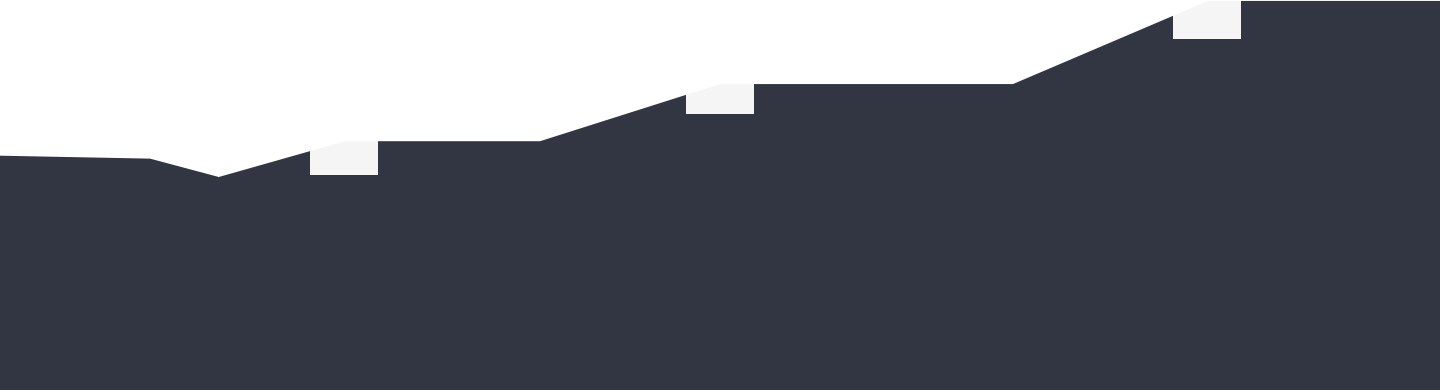
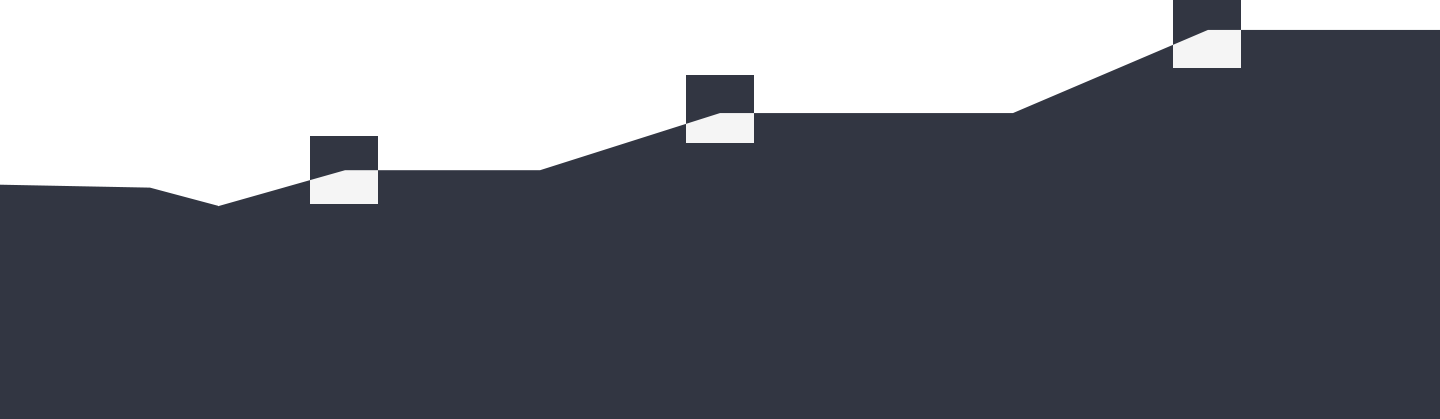
feat: implement edges section adaptive

Changed region(s): [[0.0, 0.0, 1.0, 0.4923]]

diff --git a/src/scss/index/edges.scss b/src/scss/index/edges.scss
@@ -1,4 +1,7 @@
 .edges {
+	@include media-tablet-lg {
+		margin-bottom: 40px;
+	}
 }
 
 .edges__top {
@@ -21,11 +24,19 @@
 
 		background-color: $blackAlpha;
 	}
+
+	@include media-tablet-lg {
+		&::after {
+			display: none;
+		}
+	}
 }
 
 .edges__inner {
 	position: relative;
-	padding-top: 300px;
+	padding-top: 341px;
+
+	background-image: url("../img/edges-bg.png");
 	background-repeat: no-repeat;
 	background-position: center bottom;
 	background-size: 100%;
@@ -45,7 +56,7 @@
 		height: 100%;
 		width: 100vw;
 
-		top: 0;
+		top: 25px;
 		left: 99%;
 	}
 
@@ -53,7 +64,116 @@
 		height: 100%;
 		width: 100vw;
 
-		top: 110px;
+		top: 151px;
 		right: 99%;
+	}
+
+	@include media-laptop {
+		margin: 0 -15px -1px;
+
+		&::after,
+		&::before {
+			display: none;
+		}
+	}
+
+	@include media-tablet-lg {
+		background: $whiteAlpha;
+
+		margin: 0;
+		padding: 0;
+	}
+}
+
+.edges__items {
+	display: grid;
+	grid-template-columns: repeat(3, 1fr);
+	grid-gap: 15px;
+
+	@include media-phone-lg {
+		grid-template-columns: repeat(1, 1fr);
+	}
+}
+
+.edges__item {
+	position: absolute;
+
+	max-width: 300px;
+	width: 100%;
+
+	&:nth-child(1) {
+		top: 61%;
+		left: 19%;
+	}
+
+	&:nth-child(2) {
+		top: 45%;
+		left: 46%;
+	}
+
+	&:nth-child(3) {
+		top: 30%;
+		left: 80%;
+	}
+
+	// &::before {
+	// 	position: relative;
+
+	// 	display: block;
+
+	// 	content: "";
+
+	// 	height: 15px;
+	// 	width: 15px;
+
+	// 	background-color: $blackAlpha;
+
+	// 	margin: 0 auto 10px;
+	// }
+
+	@include media-laptop {
+		&:nth-child(1) {
+			top: 61%;
+		}
+
+		&:nth-child(2) {
+			top: 47%;
+		}
+
+		&:nth-child(3) {
+			top: 32%;
+		}
+	}
+
+	@include media-tablet-lg {
+		position: static;
+
+		// max-width: unset;
+		margin: 0 auto;
+		padding: 15px;
+
+		box-shadow: rgba(0, 0, 0, 0.1) 0px 1px 3px 0px,
+			rgba(0, 0, 0, 0.06) 0px 1px 2px 0px;
+
+		text-align: center;
+		color: $blackAlpha;
+	}
+}
+
+.edges__item-title {
+	font-size: 30px;
+	font-family: $fontSecondary;
+	margin-bottom: 15px;
+
+	@include media-laptop {
+		font-size: 22px;
+	}
+}
+
+.edges__item-text {
+	font-size: 18px;
+
+	@include media-laptop {
+		font-size: 16px;
 	}
 }

diff --git a/src/html/index/_edges.html b/src/html/index/_edges.html
@@ -5,8 +5,27 @@
     </div>
   </div>
   <div class="container">
-    <div class="edges__inner" style="background-image: url('img/edges-bg.png')">
-
+    <div class="edges__inner">
+      <div class="edges__items">
+        <div class="edges__item">
+          <p class="edges__item-title">Персонал</p>
+          <div class="edges__item-text">
+            <p>У нас работают профессионалы <br> с многолетним опытом.</p>
+          </div>
+        </div>
+        <div class="edges__item">
+          <p class="edges__item-title">Сауна</p>
+          <div class="edges__item-text">
+            <p>В наших теплых саунах есть всё для приятного проведения вечера.</p>
+          </div>
+        </div>
+        <div class="edges__item">
+          <p class="edges__item-title">Ресторан</p>
+          <div class="edges__item-text">
+            <p>Приятно. Вкусно. <br> Качественно.</p>
+          </div>
+        </div>
+      </div>
     </div>
   </div>
 </section>

diff --git a/src/scss/common.scss b/src/scss/common.scss
@@ -10,15 +10,15 @@
 }
 
 .section {
-	margin-bottom: rem(55);
+	margin-bottom: 55px;
 
 	@include media-tablet-lg {
-		margin-bottom: 30px;
+		margin-bottom: 35px;
 	}
 }
 
 .title {
-	font-size: rem(48);
+	font-size: 48px;
 	font-family: $fontSecondary;
 	text-transform: uppercase;
 
@@ -45,7 +45,7 @@
 	transition: background-color 0.1s linear;
 
 	&:hover {
-		background-color: darken($blackAlpha, 7);
+		background-color: lighten($blackAlpha, 7);
 	}
 
 	&--secondary {
@@ -66,6 +66,14 @@
 	display: grid;
 	grid-template-columns: repeat(auto-fill, minmax(34px, 1fr));
 	grid-gap: rem(20);
+
+	li {
+		transition: filter 0.1s linear;
+
+		&:hover {
+			filter: brightness(120%);
+		}
+	}
 
 	@include media-tablet-sm {
 		grid-template-columns: repeat(auto-fit, minmax(34px, 1fr));

diff --git a/src/js/files/custom/lang-button.js b/src/js/files/custom/lang-button.js
@@ -1,0 +1,22 @@
+import { CLASSES } from "./constants.js";
+
+export function controlLangButton() {
+	const langButton = document.querySelector("#lang-button");
+	const langList = document.querySelector("#lang-list");
+
+	langButton.addEventListener("click", () => {
+		langList.classList.toggle(CLASSES.active);
+		langButton.classList.toggle(CLASSES.active);
+	});
+
+	window.addEventListener("click", (e) => {
+		const path = e.path || (e.composedPath && e.composedPath());
+
+		if (path.includes(langButton)) return;
+
+		if (langList.classList.contains(CLASSES.active)) {
+			langList.classList.remove(CLASSES.active);
+			langButton.classList.remove(CLASSES.active);
+		}
+	});
+}

diff --git a/src/scss/header.scss b/src/scss/header.scss
@@ -124,6 +124,7 @@
 .header__lang-list {
 	background: $whiteAlpha;
 	position: absolute;
+	z-index: 2;
 	display: flex;
 	flex-direction: column;
 	align-items: flex-end;
@@ -141,8 +142,35 @@
 		pointer-events: all;
 		opacity: 1;
 	}
+
+	li {
+		display: flex;
+		align-items: center;
+		justify-content: space-between;
+		width: 100%;
+
+		&::before {
+			background: lighten($blackAlpha, 10);
+			opacity: 0;
+			content: "";
+			width: 10px;
+			height: 10px;
+		}
+
+		&.active::before {
+			opacity: 1;
+		}
+
+		&:not(:last-child) {
+			margin-bottom: 5px;
+		}
+	}
 }
 
 .header__button {
 	font-size: 16px;
+}
+
+.header__lang {
+	position: relative;
 }

diff --git a/src/js/files/script.js b/src/js/files/script.js
@@ -1,7 +1,9 @@
 // Подключение функционала "Чертогов Фрилансера"
 import { controlHeaderBurger } from "./custom/burger.js";
+import { controlLangButton } from "./custom/lang-button.js";
 import { isMobile } from "./functions.js";
 // Подключение списка активных модулей
 import { flsModules } from "./modules.js";
 
 controlHeaderBurger();
+controlLangButton();

diff --git a/src/scss/common/offer-slide.scss b/src/scss/common/offer-slide.scss
@@ -50,4 +50,21 @@
 	background-image: url("../img/plus.png");
 	background-position: center;
 	background-repeat: no-repeat;
+
+	transition: background-color 0.1s linear;
+
+	&:hover {
+		background-color: lighten($blackAlpha, 5);
+	}
+
+	@include media-laptop {
+		height: 50px;
+		width: 140px;
+	}
+
+	@include media-tablet-sm {
+		width: 120px;
+		height: 40px;
+		background-size: 25px;
+	}
 }

diff --git a/src/html/_header.html b/src/html/_header.html
@@ -10,8 +10,8 @@
             <span>Ru</span>
           </button>
           <ul class="header__lang-list" id="lang-list">
-            <li>
-              <a class="active" href="#">Ru</a>
+            <li class="active">
+              <a href="#">Ru</a>
             </li>
             <li>
               <a href="#">En</a>

diff --git a/src/index.html b/src/index.html
@@ -16,7 +16,7 @@
       <!--About-->
       @@include('html/index/_about.html', {})
       <!--Edges-->
-      <!-- @@include('html/index/_edges.html', {}) -->
+      @@include('html/index/_edges.html', {})
       <!--Offer-->
       @@include('html/index/_offer.html', {})
     </main>

diff --git a/src/scss/footer.scss b/src/scss/footer.scss
@@ -175,6 +175,12 @@
 
 	background-color: $blackAlpha;
 
+	transition: background-color 0.1s linear;
+
+	&:hover {
+		background-color: lighten($blackAlpha, 5);
+	}
+
 	@include media-tablet-lg {
 		align-self: flex-start;
 	}
